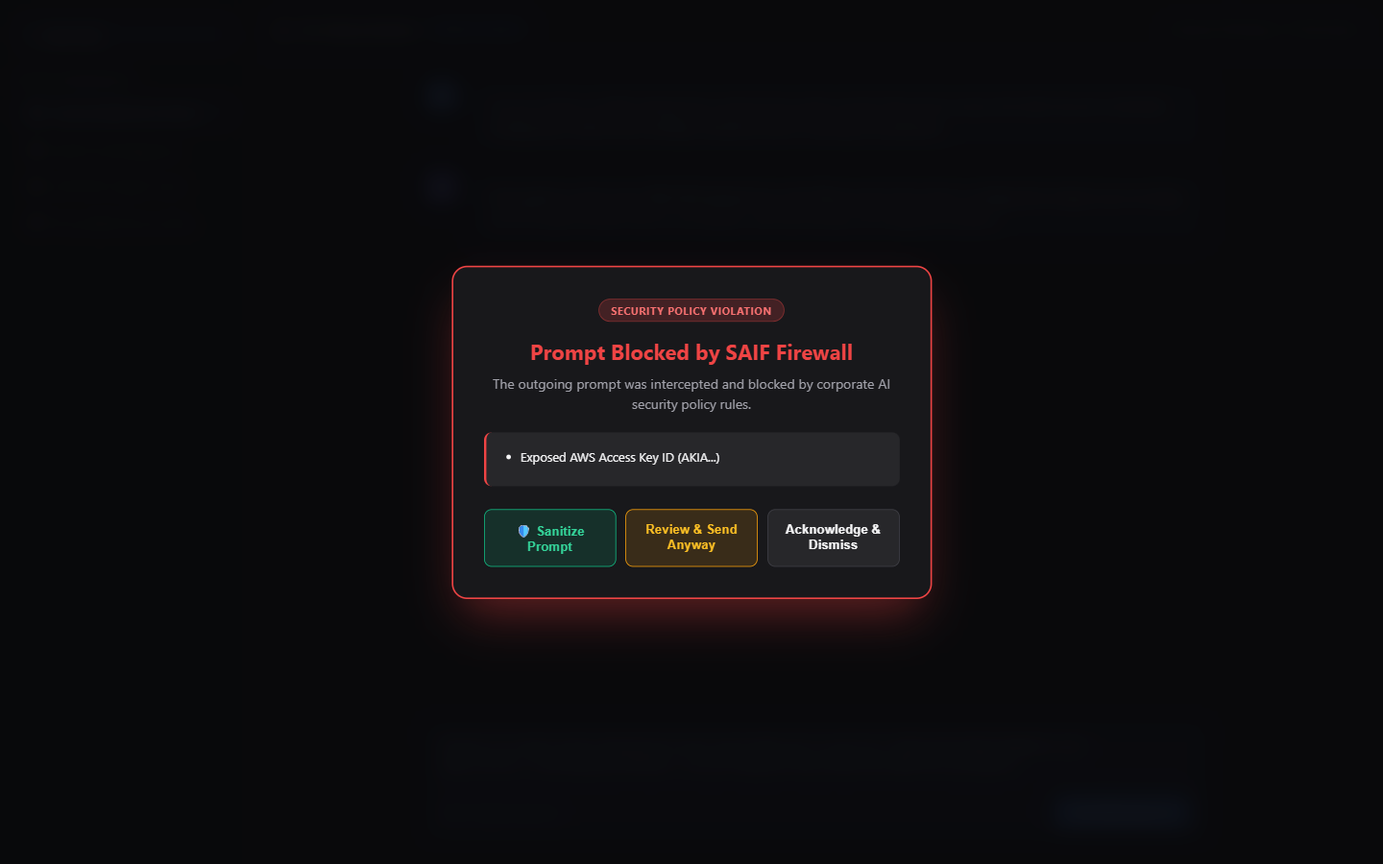
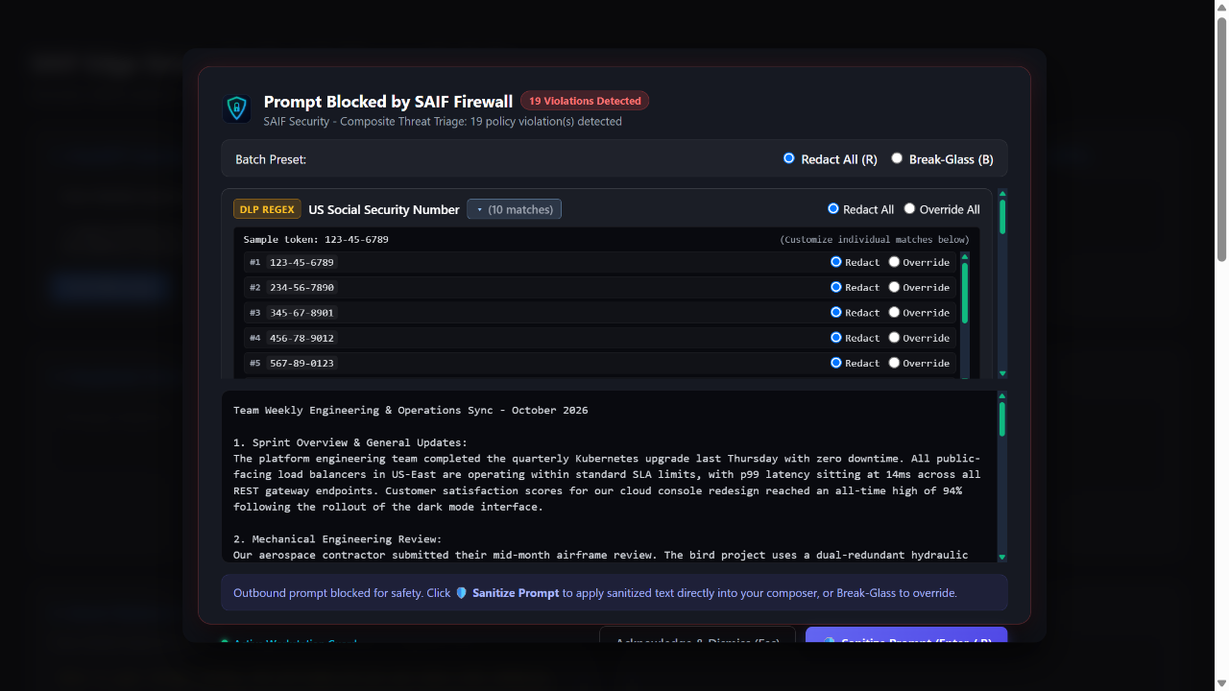
docs: overhaul documentation and showcase screenshots for v1.0.5 release

Changed region(s): [[0.1562, 0.1222, 0.8438, 0.9472], [0.9688, 0.0, 1.0, 1.0], [0.0312, 0.3972, 0.125, 0.4278]]

diff --git a/docs/USER_GUIDE.md b/docs/USER_GUIDE.md
@@ -1,11 +1,11 @@
 # SAIF User Guide: Setup, Browser Onboarding & Operational Guide
 
 > **Documentation Index**:  
-> [**Overview**](../README.md) • [**Changelog (v1.0.4)**](../CHANGELOG.md) • [**Architecture Diagrams**](ARCHITECTURE.md) • [**User Guide**](USER_GUIDE.md) • [**Benchmark Whitepaper**](BENCHMARK.md) • [**Rule Catalog**](RULE_CATALOG.md) • [**Overrides & Snoozing**](OVERRIDES_AND_SNOOZE.md) • [**FAQ**](FAQ.md) • [**Benchmark Suite**](../benchmark/README.md) • [**Empirical Report**](../BENCHMARK_REPORT.md) • [**Community EULA**](../EULA.md) • [**MIT License**](../LICENSE.md)
+> [**Overview**](../README.md) • [**Changelog (v1.0.5)**](../CHANGELOG.md) • [**Architecture Diagrams**](ARCHITECTURE.md) • [**User Guide**](USER_GUIDE.md) • [**Benchmark Whitepaper**](BENCHMARK.md) • [**Rule Catalog**](RULE_CATALOG.md) • [**Overrides & Snoozing**](OVERRIDES_AND_SNOOZE.md) • [**FAQ**](FAQ.md) • [**Benchmark Suite**](../benchmark/README.md) • [**Empirical Report**](../BENCHMARK_REPORT.md) • [**Community EULA**](../EULA.md) • [**MIT License**](../LICENSE.md)
 
 ---
 
-Welcome to the **SAIF Free Community Edition (Release v1.0.4)**! This guide walks you through setting up SAIF on your workstation in under 2 minutes.
+Welcome to the **SAIF Free Community Edition (Release v1.0.5)**! This guide walks you through setting up SAIF on your workstation in under 2 minutes.
 
 ---
 
@@ -39,7 +39,7 @@ flowchart LR
     classDef greenNode fill:#022c22,stroke:#10b981,stroke-width:2px,color:#34d399,rx:8px,ry:8px;
 ```
 
-1. Download **[`SAIF-Setup.exe`](../releases/SAIF-Setup.exe)** (Release v1.0.4, 19.85 MB).
+1. Download **[`SAIF-Setup.exe`](../releases/SAIF-Setup.exe)** (Release v1.0.5, 19.90 MB).
 2. Run `SAIF-Setup.exe`.
    - **No Administrator Rights Required**: SAIF runs 100% in your user space (`%LOCALAPPDATA%\Programs\SAIF`).
    - The installer automatically starts the background daemon and prepares your browser extension.
@@ -79,7 +79,7 @@ Because SAIF is an open-source security tool distributed directly via GitHub, it
 
 ---
 
-## 3. Verifying Protection
+## 3. Verifying Protection & The Unified Triage Experience
 
 Once the extension is loaded, test your protection immediately:
 
@@ -88,11 +88,20 @@ Once the extension is loaded, test your protection immediately:
    - [Claude (claude.ai)](https://claude.ai)
    - [Google Gemini (gemini.google.com)](https://gemini.google.com)
    - [DeepSeek (chat.deepseek.com)](https://chat.deepseek.com)
-2. Try typing a mock AWS access key:
+2. Try typing a mock AWS access key or composite test prompt:
    ```text
-   AKIAIOSFODNN7EXAMPLE
+   Review this deployment config: AWS key AKIAIOSFODNN7EXAMPLE and SSN 123-45-6789.
    ```
-3. Click Send. SAIF intercepts the prompt before it leaves your browser, displays the in-page shield modal, and offers local redaction or a deliberate break-glass override.
+3. Click **Send**.
+4. SAIF halts the outbound submission in-browser and mounts the **Unified Webview Triage Modal** (`triage.html`):
+   - **Composite Threat Badges**: Clear visual differentiation between deterministic regex DLP matches (`[REGEX_DLP]`) and on-device semantic policy violations (`[SEMANTIC_ONNX]`).
+   - **Interactive Accordion Inspection**: Expand any detected category to review individual match occurrences, attributed sentence spans, and sample tokens.
+   - **Live Multiline Diff Preview (`#diff-preview`)**: Displays a real-time before/after preview highlighting masked token tags (`[REDACTED: ...]`).
+   - **Keyboard & Batch Actions**:
+     - **`Enter` / `R` (Redact All)**: Sanitizes all detected violations in descending character offset order, replaces text in the composer, and preserves paragraph layouts.
+     - **`B` (Break-Glass)**: Authorizes an audited emergency override with justification logging.
+     - **`Esc` (Cancel / Dismiss)**: Closes the modal and keeps the original prompt safely contained on your workstation.
+   - **Rich-Text Composer Fidelity**: Automatically handles complex DOM inputs (such as Google Gemini's `<rich-textarea>`), preserving line breaks (`<p><br></p>`) and preventing character displacement.
 
 ---
 
@@ -123,7 +132,7 @@ SAIF includes a three-mode Egress Policy Engine accessible via the extension pop
 
 ## 6. Antigravity IDE & Antigravity CLI (`agy`) Hook Setup
 
-SAIF v1.0.4 integrates directly with **Google Antigravity IDE** and the **Antigravity CLI (`agy`)** through native lifecycle interception hooks.
+SAIF v1.0.5 integrates directly with **Google Antigravity IDE** and the **Antigravity CLI (`agy`)** through native lifecycle interception hooks.
 
 Unlike brittle HTTP proxies or TLS certificate injection that break Google Cloud certificate pinning, SAIF utilizes the official **Antigravity Hook Protocol (`PreInvocation` and `PreToolUse`)**. Outbound user prompts and agent tool invocations are scanned synchronously in-memory before wire transmission. If sensitive data (API keys, PII, internal IP addresses, corporate secrets) is detected, SAIF triggers native desktop triage or blocks execution before any bytes leave the workstation.
 
@@ -176,19 +185,19 @@ Add the following configuration:
 }
 ```
 
-### Native 3-Button Break-Glass Triage Dialog
+### Standalone Desktop Triage Window & Decision Matrix
 
-When a sensitive secret or policy violation is detected in an outbound user prompt during `PreInvocation`, SAIF displays an interactive native Win32 dialog offering three distinct actions:
+When a sensitive secret or policy violation is detected in an outbound user prompt during `PreInvocation`, `saif hook` creates a triage session (`POST /api/v1/triage/create`) and launches a standalone desktop triage window via Microsoft Edge webview (`msedge.exe --app=http://127.0.0.1:18080/triage?session=<id>`), falling back to a native Win32 dialog if unavailable:
 
-| Action | Button | Behavior & Guarantees |
+| Action | Control / Hotkey | Behavior & Guarantees |
 | :--- | :---: | :--- |
-| **Break Glass** | **`[Break Glass]`** | Authorizes an audited emergency override. Logs the security override event to the local SAIF daemon audit trail and permits the prompt to transmit raw to the AI service. |
-| **Redact** | **`[Redact]`** | Sanitizes sensitive tokens in-place directly within the active session transcript (`transcript_full.jsonl`) with masked labels (e.g., `[REDACTED_SSN]`), posts an ephemeral notification in the chat UI, and proceeds with the safe sanitized turn. |
-| **Block** | **`[Block]`** | Immediately purges the sensitive violation from the local session transcript (`transcript_full.jsonl`) so subsequent turns cannot accidentally bundle or leak the confidential text, then halts the turn cleanly via a circuit breaker error step. |
+| **Sanitize & Proceed** | **`Enter` / `R`** | Automatically sanitizes sensitive tokens in descending byte order using an interval-containment algorithm, synchronizes transcripts (`transcript.jsonl` and `transcript_full.jsonl`), issues an `OverrideLease`, and allows the sanitized turn to dispatch safely. |
+| **Break Glass** | **`B`** | Authorizes an audited emergency override. Logs justification to the local daemon audit trail, issues an `OverrideLease`, and permits the raw prompt to transmit. |
+| **Cancel / Block** | **`Esc`** | Suppresses the outbound prompt with an ephemeral warning notification, maintaining session continuity without terminating the assistant. |
 
 > [!NOTE]
-> **Stateless Chat Replay Prevention & Deduplication**:  
-> Cloud LLM chats are stateless; each subsequent turn bundles and re-transmits the complete conversation transcript. By immediately sanitizing `transcript_full.jsonl` upon **Redact** or **Block**, SAIF guarantees that aborted or sanitized secrets are never leaked in subsequent queries. In addition, multi-turn agent execution loops (`invocationNum > 0`) are automatically deduplicated so you are only prompted once per user submission.
+> **Single-Trip Override Lease (`OverrideLease`)**:  
+> Resolving a triage session generates an ephemeral, in-memory `OverrideLease` token linked to the prompt hash. When the IDE re-transmits the approved or sanitized prompt, the local daemon validates the lease and skips redundant inspection, ensuring developers are never prompted twice for the same turn.
 
 ### How It Works:
 1. **Zero Proxy Overhead**: Runs directly via stdin/stdout IPC without listening proxies or breaking TLS certificate pinning.
@@ -210,7 +219,7 @@ SAIF runs quietly in the Windows System Tray (notification area). Right-click th
 | **5** | **`Stream Prompts / API Wire`** | Action | Spawns a dedicated PowerShell streaming terminal displaying live wire payloads, DLP tokens, and AI egress events. |
 | **6** | **`Open Web Dashboard`** | Action | Opens the local Next.js telemetry & audit log portal in your default browser (`http://127.0.0.1:18080/dashboard`). |
 | **7** | **`Documentation & Guide`** | Action | Opens the local offline User Setup Guide and operational documentation. |
-| **8** | **`About SAIF Free Tier`** | Dialog | Displays current version (`v1.0.4`), local build hash, license terms, and community support links. |
+| **8** | **`About SAIF Free Tier`** | Dialog | Displays current version (`v1.0.5`), local build hash, license terms, and community support links. |
 | **9** | **`Exit SAIF`** | Action | Gracefully terminates the background daemon process and releases local port bindings. |
 
 ---
@@ -251,9 +260,9 @@ SAIF is committed to securing AI developer workflows across all modern IDEs, CLI
 
 | Environment | Integration Mechanism | Status | Notes |
 |:---|:---|:---:|:---|
-| **Google Chrome / Chromium / Edge / Brave** | Manifest V3 Edge Interceptor | **Live (v1.0.4)** | Full front-door modal interception, redaction, and egress gating. |
-| **Google Antigravity IDE** | Native `PreInvocation` Hook | **Live (v1.0.4)** | Direct lifecycle hook integration; zero proxy or TLS certificate friction. |
-| **Antigravity CLI (`agy`)** | Native CLI Hook Protocol | **Live (v1.0.4)** | Terminal prompt & context streaming protection. |
+| **Google Chrome / Chromium / Edge / Brave** | Manifest V3 Edge Interceptor | **Live (v1.0.5)** | Full front-door modal interception, redaction, and egress gating. |
+| **Google Antigravity IDE** | Native `PreInvocation` Hook | **Live (v1.0.5)** | Direct lifecycle hook integration; zero proxy or TLS certificate friction. |
+| **Antigravity CLI (`agy`)** | Native CLI Hook Protocol | **Live (v1.0.5)** | Terminal prompt & context streaming protection. |
 | **OpenAI Codex & Codex CLI** | Native Stdin Interceptor & Wrapper | **Active Development** | Dedicated pre-submission security wrapper. |
 | **Cursor IDE** | Custom Extension & Agent Hook | **Active Development** | Intercepts agent composer and multi-file code attachments. |
 | **Anthropic Claude Code** | Terminal Interceptor | **Active Development** | Direct prompt and tool execution inspection. |

diff --git a/README.md b/README.md
@@ -19,8 +19,8 @@
 
 | Asset | Platform / Target | Size | Description |
 | :--- | :--- | :--- | :--- |
-| **[`SAIF-Setup.exe`](releases/SAIF-Setup.exe)** | Windows 10 / 11 (64-bit) | 19.85 MB | Native Inno Setup single-action installer (Zero UAC, zero proxy, native IDE hook, automatic PATH integration). |
-| **[`saif-extension.zip`](releases/saif-extension.zip)** | Chromium (Chrome, Brave, Edge) | 124.6 KB | Pre-packaged Manifest V3 browser extension for unpacked developer installation. |
+| **[`SAIF-Setup.exe`](releases/SAIF-Setup.exe)** | Windows 10 / 11 (64-bit) | 19.90 MB | Native Inno Setup single-action installer (Zero UAC, zero proxy, native IDE hook, automatic PATH integration). |
+| **[`saif-extension.zip`](releases/saif-extension.zip)** | Chromium (Chrome, Brave, Edge) | 142.6 KB | Pre-packaged Manifest V3 browser extension for unpacked developer installation. |
 
 ```powershell
 # Quick install: execute user-space installer (no administrator privileges required)
@@ -43,20 +43,53 @@ Detailed release notes and version history are tracked in the [**Changelog**](CH
 
 ## Visual Showcase: Protection in Action
 
-SAIF operates transparently on your local workstation without synthetic testbed mockups. Here is what real-time enforcement looks like in everyday development:
+SAIF operates transparently on your local workstation without synthetic testbed mockups. Here is what real-time enforcement looks like across both **Browser AI Chatrooms** and **Desktop IDE Assistants**:
 
-### 1. In-Page AI Prompt Interception & Local Redaction
-When sensitive credentials, keys, or proprietary data are entered into AI web apps (Claude, ChatGPT, Gemini, DeepSeek), SAIF halts outbound transmission before the request reaches the network. Developers can choose to auto-sanitize tokens locally or trigger an authorized break-glass override:
+### 1. In-Page AI Prompt Interception & Composite Threat Triage (Browser Extension)
+When sensitive credentials, secret keys, or proprietary trade secrets are entered into web AI applications (Claude, ChatGPT, Gemini, DeepSeek), SAIF halts outbound transmission before bytes reach the network. The **v1.0.5 Unified Webview Triage Modal** mounts inside an isolated iframe, displaying composite threat badges (`[REGEX_DLP]` and `[SEMANTIC_ONNX]`), live multiline diff previews (`#diff-preview`), interactive accordions, and instant batch actions (`Enter` / `R` for Redact All, `B` for Break-Glass):
 
 <p align="center">
   <a href="docs/screenshots/inpage_ai_chat_interception.png" title="Click to view full resolution">
-    <img src="docs/screenshots/inpage_ai_chat_interception.png" alt="In-Page AI Chat Interception" width="680" style="max-width: 100%; border-radius: 8px; border: 1px solid #334155; box-shadow: 0 4px 16px rgba(0,0,0,0.35);" />
+    <img src="docs/screenshots/inpage_ai_chat_interception.png" alt="In-Page AI Chat Interception with Unified Webview Triage" width="680" style="max-width: 100%; border-radius: 8px; border: 1px solid #334155; box-shadow: 0 4px 16px rgba(0,0,0,0.35);" />
   </a>
   <br>
   <sub><em>(Click image to view full resolution)</em></sub>
 </p>
 
-### 2. Ambient In-Composer Risk Warning
+### 2. Standalone Desktop & IDE Triage Window (Google Antigravity IDE & CLI Hook)
+When coding assistants or terminal CLIs (`saif hook`) evaluate prompts during `PreInvocation`, SAIF spawns a borderless desktop triage window. Developers can review detected violations across multiple corporate verticals, examine attributed sentence spans, inspect real-time masked token tags, and authorize single-trip prompt continuation via in-memory `OverrideLease`:
+
+<p align="center">
+  <a href="docs/screenshots/desktop_triage_modal_full_corpus.png" title="Click to view full resolution">
+    <img src="docs/screenshots/desktop_triage_modal_full_corpus.png" alt="Standalone Desktop Triage Modal Window" width="680" style="max-width: 100%; border-radius: 8px; border: 1px solid #334155; box-shadow: 0 4px 16px rgba(0,0,0,0.35);" />
+  </a>
+  <br>
+  <sub><em>(Click image to view full resolution)</em></sub>
+</p>
+
+### 3. Interactive Accordion Triage & Match-Level Controls
+Need to inspect individual occurrences or carve out specific tokens? Click any category accordion to expand matches, inspect sample tokens, or customize overrides item-by-item:
+
+<p align="center">
+  <a href="docs/screenshots/desktop_triage_modal_accordion.png" title="Click to view full resolution">
+    <img src="docs/screenshots/desktop_triage_modal_accordion.png" alt="Accordion Expanded Triage Controls" width="680" style="max-width: 100%; border-radius: 8px; border: 1px solid #334155; box-shadow: 0 4px 16px rgba(0,0,0,0.35);" />
+  </a>
+  <br>
+  <sub><em>(Click image to view full resolution)</em></sub>
+</p>
+
+### 4. Omnibox (Address Bar) Search Interception with Triage Parity
+Developers frequently paste API tokens, internal URLs, or credentials directly into their browser address bar, inadvertently submitting them to public search engine query logs. SAIF intercepts Omnibox navigation and diverts the tab to `blocked.html`—now featuring 100% triage modal parity with accordion grouping and diff preview:
+
+<p align="center">
+  <a href="docs/screenshots/omnibox_blocked_showcase.png" title="Click to view full resolution">
+    <img src="docs/screenshots/omnibox_blocked_showcase.png" alt="Omnibox Address Bar Search Interception" width="640" style="max-width: 100%; border-radius: 8px; border: 1px solid #334155; box-shadow: 0 4px 16px rgba(0,0,0,0.35);" />
+  </a>
+  <br>
+  <sub><em>(Click image to view full resolution)</em></sub>
+</p>
+
+### 5. Ambient In-Composer Pre-Flight Risk Warning
 Before submission, SAIF monitors composer input in real-time, displaying a non-intrusive preflight risk badge if sensitive variables or confidential tokens are detected:
 
 <p align="center">
@@ -67,18 +100,7 @@ Before submission, SAIF monitors composer input in real-time, displaying a non-i
   <sub><em>(Click image to view full resolution)</em></sub>
 </p>
 
-### 3. Omnibox (Address Bar) Search Interception
-Developers frequently copy/paste API tokens, internal URLs, or credentials directly into their browser address bar, inadvertently submitting them to public search engine query logs. SAIF intercepts Omnibox navigation at the socket layer and blocks the query before it leaves the machine:
-
-<p align="center">
-  <a href="docs/screenshots/omnibox_blocked_showcase.png" title="Click to view full resolution">
-    <img src="docs/screenshots/omnibox_blocked_showcase.png" alt="Omnibox Address Bar Search Interception" width="640" style="max-width: 100%; border-radius: 8px; border: 1px solid #334155; box-shadow: 0 4px 16px rgba(0,0,0,0.35);" />
-  </a>
-  <br>
-  <sub><em>(Click image to view full resolution)</em></sub>
-</p>
-
-### 4. Workstation Options Console & Model Triad
+### 6. Workstation Options Console & Model Triad
 Full visibility into active protection engines, algorithmic guards, and hot-swappable local models (`SAIF Light`, `SAIF Neural`, and `SAIF Deep Neural`):
 
 <p align="center">
@@ -89,7 +111,7 @@ Full visibility into active protection engines, algorithmic guards, and hot-swap
   <sub><em>(Click image to view full resolution)</em></sub>
 </p>
 
-### 5. Toolbar Popup Console
+### 7. Toolbar Popup Console
 Instant workstation status, engine latency diagnostics, and 1-click protection snooze controls:
 
 <p align="center">

diff --git a/docs/OVERRIDES_AND_SNOOZE.md b/docs/OVERRIDES_AND_SNOOZE.md
@@ -1,7 +1,7 @@
 # SAIF Overrides, Snoozing & Local Audit History
 
 > **Documentation Index**:  
-> [**Overview**](../README.md) • [**Architecture Diagrams**](ARCHITECTURE.md) • [**User Guide**](USER_GUIDE.md) • [**Benchmark Whitepaper**](BENCHMARK.md) • [**Rule Catalog**](RULE_CATALOG.md) • [**Overrides & Snoozing**](OVERRIDES_AND_SNOOZE.md) • [**FAQ**](FAQ.md) • [**Benchmark Suite**](../benchmark/README.md) • [**Empirical Report**](../BENCHMARK_REPORT.md) • [**Community EULA**](../EULA.md) • [**MIT License**](../LICENSE.md)
+> [**Overview**](../README.md) • [**Changelog (v1.0.5)**](../CHANGELOG.md) • [**Architecture Diagrams**](ARCHITECTURE.md) • [**User Guide**](USER_GUIDE.md) • [**Benchmark Whitepaper**](BENCHMARK.md) • [**Rule Catalog**](RULE_CATALOG.md) • [**Overrides & Snoozing**](OVERRIDES_AND_SNOOZE.md) • [**FAQ**](FAQ.md) • [**Benchmark Suite**](../benchmark/README.md) • [**Empirical Report**](../BENCHMARK_REPORT.md) • [**Community EULA**](../EULA.md) • [**MIT License**](../LICENSE.md)
 
 ---
 
@@ -9,64 +9,44 @@ SAIF is designed for **developer velocity**. Security controls should never bloc
 
 ---
 
-## 1. Break-Glass Override Workflow
+## 1. Unified Triage & Override Decision Matrix
 
-When SAIF intercepts an outbound prompt, an in-page shield modal appears over the AI chat:
+When SAIF intercepts an outbound prompt—either inside a web AI chatroom via the browser extension or out-of-browser via the Antigravity IDE hook—it presents the **v1.0.5 Composite Threat Triage Modal**:
 
 <p align="center">
   <a href="screenshots/inpage_ai_chat_interception.png" title="Click to view full resolution">
-    <img src="screenshots/inpage_ai_chat_interception.png" alt="SAIF In-Page Security Shield Modal" width="680" style="max-width: 100%; border-radius: 8px; border: 1px solid #334155; box-shadow: 0 4px 16px rgba(0,0,0,0.35);" />
+    <img src="screenshots/inpage_ai_chat_interception.png" alt="SAIF Unified Webview Triage Modal" width="680" style="max-width: 100%; border-radius: 8px; border: 1px solid #334155; box-shadow: 0 4px 16px rgba(0,0,0,0.35);" />
   </a>
   <br>
-  <sub><em>(Click image to view full resolution)</em></sub>
+  <sub><em>(In-Browser Unified Webview Triage Modal)</em></sub>
 </p>
 
-### Override Sequence Workflow
+### Decision Matrix & Controls
 
-```mermaid
-%%{init: {
-  'theme': 'base',
-  'themeVariables': {
-    'darkMode': true,
-    'background': '#09090b',
-    'actorBkg': '#18181b',
-    'actorBorder': '#3b82f6',
-    'actorTextColor': '#60a5fa',
-    'actorLineColor': '#38bdf8',
-    'signalColor': '#38bdf8',
-    'signalTextColor': '#e4e4e7',
-    'noteBkgColor': '#18181b',
-    'noteBorderColor': '#3b82f6',
-    'noteTextColor': '#f4f4f5',
-    'fontFamily': 'Inter, system-ui, -apple-system, sans-serif',
-    'fontSize': '13px'
-  }
-}}%%
-sequenceDiagram
-    autonumber
-    actor Dev as 👨💻 Developer
-    participant Modal as 🛡 In-Page Shield Modal
-    participant Sensor as 🧩 Extension Interceptor
-    participant Daemon as ⚡ saif.exe (Local Daemon)
-    participant AI as ☁ AI Web App (Claude/ChatGPT)
+Developers have four distinct options when a violation is flagged:
 
-    Note over Dev,Modal: Sensitive Token Intercepted & Blocked
-    Modal-->>Dev: Displays Block Card ("AWS Secret Key Detected")
-    Dev->>Modal: Clicks "Break-Glass Override"
-    Modal->>Dev: Prompts for developer justification
-    Dev->>Modal: Enters reason ("Testing mock credentials in dev")
-    Modal->>Daemon: POST /v1/override (token, justification)
-    Daemon->>Daemon: Log event to local audit store & issue single-use nonce
-    Daemon-->>Sensor: { status: "AUTHORIZED", nonce: "uuid-v4" }
-    Sensor->>Modal: Close Shield Modal
-    Sensor->>AI: Release original prompt payload
-    AI-->>Dev: Prompt delivered (AI streaming begins)
-```
+| Remediation Action | Keyboard / Hotkey | Operational Behavior | Single-Trip Guarantee |
+| :--- | :---: | :--- | :--- |
+| **Sanitize Prompt (Redact All)** | **`Enter` / `R`** | Replaces all detected violations in descending character offset order with masked tags (e.g. `[REDACTED: pii_national_id]`). Preserves exact multi-line paragraph layout (`<p><br></p>`). | Issues `OverrideLease` for sanitized hash; bypasses redundant scans on resubmit. |
+| **Break-Glass Emergency Override** | **`B`** | Logs an audited bypass event locally and permits the raw prompt to egress to the AI service. | Issues single-trip `OverrideLease` to prevent re-blocking on turn dispatch. |
+| **Granular Accordion Overrides** | **Click Accordion** | Expand individual rule drawers to inspect matched text spans, sample tokens, and toggle specific matches on or off individually before applying. | Customized mask applied; un-checked tokens preserved raw. |
+| **Cancel / Block** | **`Esc`** | Closes the modal. The original text remains safe on the workstation without transmitting any bytes upstream. | Prompt remains un-transmitted. |
 
-### How Override Works
-1. Clicking **Break-Glass Override** prompts for an optional one-line developer reason (e.g., *"Testing with dummy sandbox credentials"*).
-2. The prompt immediately unblocks and transits directly to the AI service.
-3. The override event is recorded locally in your workstation audit log with a timestamp and the user reason.
+<p align="center">
+  <a href="screenshots/desktop_triage_modal_accordion.png" title="Click to view full resolution">
+    <img src="screenshots/desktop_triage_modal_accordion.png" alt="Accordion Expanded Match Inspection" width="680" style="max-width: 100%; border-radius: 8px; border: 1px solid #334155; box-shadow: 0 4px 16px rgba(0,0,0,0.35);" />
+  </a>
+  <br>
+  <sub><em>(Desktop Triage Modal: Granular Accordion Controls & Live Diff Preview)</em></sub>
+</p>
+
+### How the Single-Trip Override Lease Works
+1. When you select **Break-Glass** or **Sanitize Prompt**, SAIF generates an ephemeral, in-memory **`OverrideLease`** token bound to the specific prompt hash or session ID.
+2. The browser extension or IDE hook immediately dispatches the turn.
+3. As the outgoing HTTP request leaves the workstation, the local daemon (`saif.exe :18080`) checks the active lease ring buffer:
+   - If an active lease matches the prompt hash, inspection is skipped and the request transits smoothly.
+   - The lease is consumed upon transmission, ensuring zero leakage on subsequent turns.
+4. The override or redaction action is committed to your local workstation audit log (`%LOCALAPPDATA%\saif\spool.db`).
 
 ---
 

diff --git a/docs/FAQ.md b/docs/FAQ.md
@@ -1,9 +1,24 @@
 # Frequently Asked Questions (FAQ)
 
 > **Documentation Index**:  
-> [**Overview**](../README.md) • [**Architecture Diagrams**](ARCHITECTURE.md) • [**User Guide**](USER_GUIDE.md) • [**Benchmark Whitepaper**](BENCHMARK.md) • [**Rule Catalog**](RULE_CATALOG.md) • [**Overrides & Snoozing**](OVERRIDES_AND_SNOOZE.md) • [**FAQ**](FAQ.md) • [**Benchmark Suite**](../benchmark/README.md) • [**Empirical Report**](../BENCHMARK_REPORT.md) • [**Community EULA**](../EULA.md) • [**MIT License**](../LICENSE.md)
+> [**Overview**](../README.md) • [**Changelog (v1.0.5)**](../CHANGELOG.md) • [**Architecture Diagrams**](ARCHITECTURE.md) • [**User Guide**](USER_GUIDE.md) • [**Benchmark Whitepaper**](BENCHMARK.md) • [**Rule Catalog**](RULE_CATALOG.md) • [**Overrides & Snoozing**](OVERRIDES_AND_SNOOZE.md) • [**FAQ**](FAQ.md) • [**Benchmark Suite**](../benchmark/README.md) • [**Empirical Report**](../BENCHMARK_REPORT.md) • [**Community EULA**](../EULA.md) • [**MIT License**](../LICENSE.md)
 
 ---
+
+### Q: Why does SAIF not require installing a self-signed root CA or breaking TLS?
+**A:** In v1.0.4+, SAIF completely eradicated network-level TLS proxying and root CA injection. Instead, SAIF uses direct **Policy Enforcement Points (PEPs)**:
+1. **Browser Web Apps**: Intercepted in-page before transmission via Chromium Manifest V3 Main-World hooks (`window.fetch` / `XMLHttpRequest`).
+2. **Desktop IDEs & CLIs**: Intercepted directly through native lifecycle hooks (Google Antigravity IDE `PreInvocation` and `PreToolUse` protocol via `saif hook`).
+This eliminates the risk of broken Google Cloud certificate pinning (`SSL_PIN_FAILED`) and security warnings across developer tools.
+
+### Q: How does the Antigravity IDE and `agy` CLI hook work?
+**A:** When configured in `%USERPROFILE%\.gemini\config\hooks.json`, Antigravity pipes outbound prompts and tool commands directly to `saif.exe hook` via `stdin`. If clean, `saif.exe` exits in under 5ms and execution proceeds. If sensitive data is detected, `saif.exe` spawns the standalone desktop triage window to let you sanitize, override, or block the turn before any bytes leave your workstation.
+
+### Q: What is the Standalone Desktop Triage Window and how does `OverrideLease` work?
+**A:** For non-browser assistants (such as Antigravity IDE), SAIF spawns an isolated Microsoft Edge webview window (`msedge.exe --app=http://127.0.0.1:18080/triage?session=...`) showing detected violations, accordion drawers, and live diff previews. When you authorize an override or sanitization, SAIF issues an ephemeral in-memory `OverrideLease` token. When the assistant re-submits the approved turn, the daemon recognizes the lease and passes the prompt without prompting you twice.
+
+### Q: How does SAIF handle multi-line paragraph formatting in Gemini and Claude?
+**A:** Web AI composers like Google Gemini use custom `<rich-textarea>` custom elements where Chromium's `innerText` double-inflates block margins. SAIF v1.0.5 reconstructs exact paragraph DOM trees and blank lines (`<p><br></p>`) during in-place prompt sanitization, guaranteeing zero line collapse or character displacement.
 
 ### Q: What happens if `saif.exe` stops running or my laptop restarts?
 **A:** By default, SAIF employs a **fail-open** posture to ensure software developers are never unexpectedly blocked during routine work. If the local daemon is offline or restarting, outbound AI prompts transit normally.
@@ -32,4 +47,4 @@ Then update the target port in the Extension Options Dashboard.
    ```cmd
    "%LOCALAPPDATA%\Programs\SAIF\uninstall.exe" --uninstall
    ```
-This immediately terminates running processes, reverts Windows Internet Settings (`AutoConfigURL`), removes the autostart registry entry, clears environment variables, and removes all program files.
+This terminates running background processes, removes user PATH registrations, deletes the autostart registry entry, and removes all program files cleanly.

diff --git a/docs/ARCHITECTURE.md b/docs/ARCHITECTURE.md
@@ -49,24 +49,37 @@ flowchart TB
             CS <-->|"Internal IPC"| BG
         end
 
-        subgraph LocalDaemon ["⚡ Local SAIF Daemon (saif.exe on 127.0.0.1:44321)"]
-            PROXY["Local HTTP Server<br/><b>Loopback Endpoint</b>"]:::blueNode
+        subgraph LocalDaemon ["⚡ Local SAIF Daemon (saif.exe on 127.0.0.1:18080)"]
+            PROXY["Local HTTP Server<br/><b>Loopback Endpoint (:18080)</b>"]:::blueNode
             NORM["Syntactic Normalizer<br/><b>Base64, Hex, Homoglyphs & AST</b>"]:::amberNode
-            DLP["Tier 1: Pre-compiled DLP Engine<br/><b>27+ High-Speed Regex Rules (<1ms)</b>"]:::cyanNode
+            DLP["Tier 1: Pre-compiled DLP Engine<br/><b>42+ High-Speed Regex Rules (<1ms)</b>"]:::cyanNode
             ENTROPY["Tier 2: Algorithmic Verification<br/><b>Shannon Entropy & Luhn Checksums (<3ms)</b>"]:::purpleNode
-            ONNX["Tier 3: Local ONNX Transformer<br/><b>Neural Semantic Classifier (<10ms)</b>"]:::purpleNode
+            ONNX["Tier 3: Local ONNX Transformer<br/><b>Model Triad (Light / Neural / Deep)</b>"]:::purpleNode
             DECIDE["Cedar Zero-Trust Engine<br/><b>Default-Deny Policy Arbitration</b>"]:::greenNode
-            AUDIT[("Encrypted Audit Store<br/><b>Local Workstation SQLite</b>")]:::slateNode
+            LEASE["OverrideLease Ring Buffer<br/><b>Single-Trip Resubmission Cache</b>"]:::cyanNode
+            AUDIT[("Encrypted Audit Store<br/><b>Local Workstation Spool Ring</b>")]:::slateNode
 
             PROXY --> NORM
             NORM --> DLP
             DLP --> ENTROPY
             ENTROPY --> ONNX
             ONNX --> DECIDE
+            DECIDE --> LEASE
             DECIDE --> AUDIT
         end
 
-        BG <-->|"Loopback REST / WebSocket"| PROXY
+        subgraph IDETier ["💻 Desktop IDE & CLI Assistants (PEP 2)"]
+            IDE["Google Antigravity IDE / agy CLI"]:::blueNode
+            HOOK["saif.exe hook<br/><b>PreInvocation & PreToolUse</b>"]:::cyanNode
+            WIN["Standalone Desktop Triage Window<br/><b>msedge.exe --app Webview</b>"]:::redNode
+
+            IDE -->|"Prompt Submitted"| HOOK
+            HOOK <-->|"POST /api/v1/hook"| PROXY
+            HOOK -->|"Violation Detected"| WIN
+            WIN -->|"Action Decision"| PROXY
+        end
+
+        BG <-->|"Loopback REST (150ms timeout)"| PROXY
     end
 
     subgraph CloudAI ["☁ External Generative AI Cloud"]
@@ -239,7 +252,7 @@ flowchart TD
 
     subgraph NeuralLayer ["Local ONNX Semantic Transformer (<10ms)"]
         TIER3 --> EMBED["Local Tokenizer & Embedding Engine"]:::purpleNode
-        EMBED --> ONNX_ENG["SAIF Engineer ONNX Model"]:::purpleNode
+        EMBED --> ONNX_ENG["SAIF Neural / Deep Neural ONNX Model"]:::purpleNode
         ONNX_ENG --> INTENT["Semantic Context & Intent Classifier"]:::purpleNode
     end
 
